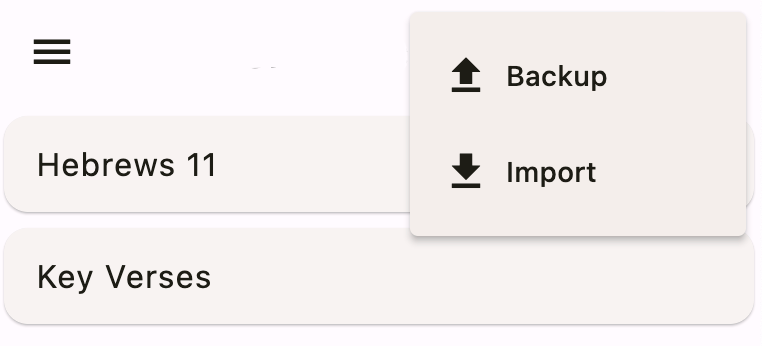
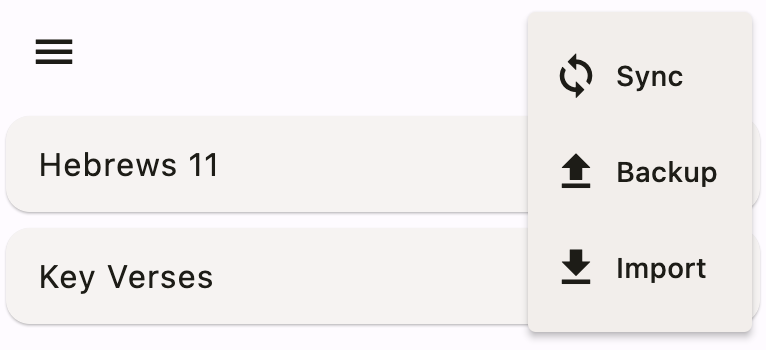
version 2.0

diff --git a/docs/docs/making-changes/making-changes.md b/docs/docs/making-changes/making-changes.md
@@ -71,7 +71,7 @@ Return to the home screen with your collections list. Choose the three-dot menu 
 ![verse view menu](img/three-dot-menu-1.png)
 </div>
 
-This will give you two options:
+This will give you three options:
 
 <div class="bordered-image">
 
@@ -80,8 +80,9 @@ This will give you two options:
 
 This is the meaning:
 
-- **Backup**: This will extract all of your collections and verses from the app's database and put them in a text file. You'll be given an opportunity to choose a location to share this file to. For example, you could send yourself an email. It's a good idea to back up your collections every now and then so that if you loose your phone, you won't loose all of your hard work.
-- **Import**: Choose this option to restore a previous backup. If there are duplicates verses between the backup and your current collections, the app will go with the verses that were modified most recently.
+- **Sync**: This will save your collections on an online server so that you access them from another device or retrieve them if you lose your phone. To accomplish this, though, you'll have to create a new user account. 
+- **Backup**: Choose this option if you don't want to sign up for a new account. This will extract all of your collections and verses from the app's local database and put them in a text file. You'll be given an opportunity to choose a location to share this file to. For example, you could send yourself an email or store it as a file. It's a good idea to back up your collections every now and then so that if you loose your phone, you won't loose all of your hard work.
+- **Import**: This is for restoring a previous backup from a file. If there are duplicates verses between the backup and your current collections, the app will go with the verses that were modified most recently.
 
 You may also recall seeing the **Share** option in the collection menu:
 

diff --git a/docs/docs/practicing/practicing.md b/docs/docs/practicing/practicing.md
@@ -29,11 +29,6 @@ The numbers correspond to the following parts:
 4. **Hints**: These give you a little help if you need it. More on them shortly.
 5. **Show verse text**: Press this button to check if you quoted the verse right.
 
-
-:::note
-If you entered new verses and they aren't all showing up, check the **Max new verses per day** value in settings. The default is 10.
-:::
-
 ## Showing hints
 
 There are two different types of hints: letters and words.
@@ -80,7 +75,7 @@ Now press the **Word** hint button. You'll see that it shows you the first word 
 
 This allows you to give yourself just the amount of help that you need.
 
-If you press the Word hint button enough, it'll reveal the entire verse text, which will disable the hint buttons and trigger the response buttons being shown at the bottom. That's fine, but for the sake of this tutorial, let's cancel the hints so that you can see how to show the verse text the normal way. To do that, go back out to the home screen by pressing the **<** back button. Then choose the **Hebrews 11** collection again.
+If you press the Word hint button enough, it'll reveal the entire verse text, which will disable the hint buttons and trigger the response buttons being shown at the bottom. That's fine, but for the sake of this tutorial, let's cancel the hints so that you can see how to show the verse text the normal way. To do that, go back out to the home screen by pressing the < back button. Then choose the **Hebrews 11** collection again.
 
 ## Showing the verse text
 

diff --git a/docs/docs/intro/intro.md b/docs/docs/intro/intro.md
@@ -12,7 +12,7 @@ Memorize Scripture is an [**Android**](https://play.google.com/store/apps/detail
 This tutorial will introduce you to how the app works. To get started, click the **Next** button below.
 
 :::important
-This tutorial was written for Memorize Scripture version 1.9. You can check your installed version number by going to the app menu and choosing **About**. If you want to manually upgrade, the store links are below:
+This tutorial was written for Memorize Scripture version 2.0. You can check your installed version number by going to the app menu and choosing **About**. If you want to manually upgrade, the store links are below:
 
 - Android Play Store: https://play.google.com/store/apps/details?id=dev.ethnos.memorize_scripture
 - Apple App Store: https://apps.apple.com/us/app/memorize-scripture-ethnosdev/id6449814205

diff --git a/docs/docs/settings/settings.md b/docs/docs/settings/settings.md
@@ -31,9 +31,9 @@ Choose dark mode to make it easier on your eyes if you practice your verses earl
 
 ## Max new verses per day
 
-This is the maximum number of new verses the app will show you every day. The default is 10. Set it to a lower number if you don't want to have so many new verses in one day.
+This is the maximum number of new verses the app will show you every day. Set it to a number like 5 or 10 if you don't want to get too many new verses in one day.
 
-This setting is useful when you reset the due date for all of the verses in a collection but you don't want to practice them all at once.
+This setting is useful when you reset the due date for all of the verses in a collection, but you don't want to practice them all at once.
 
 ## Max days between reviews
 
